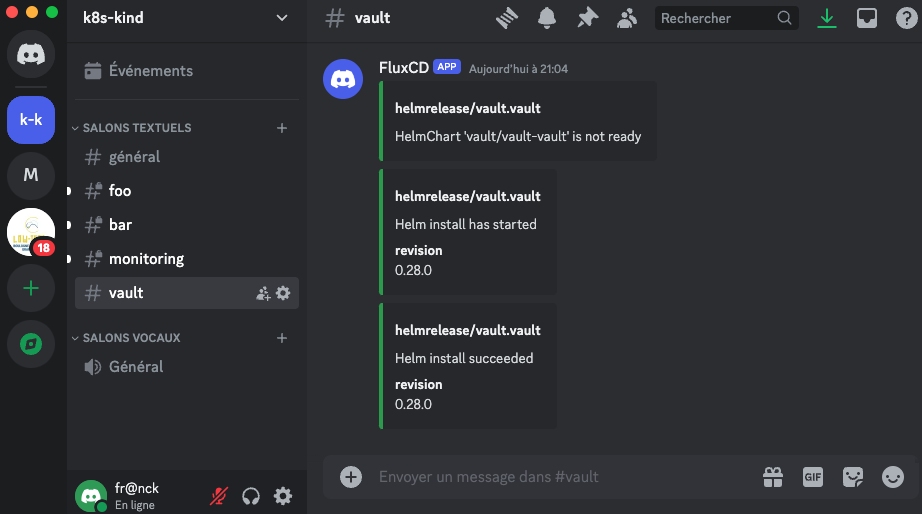
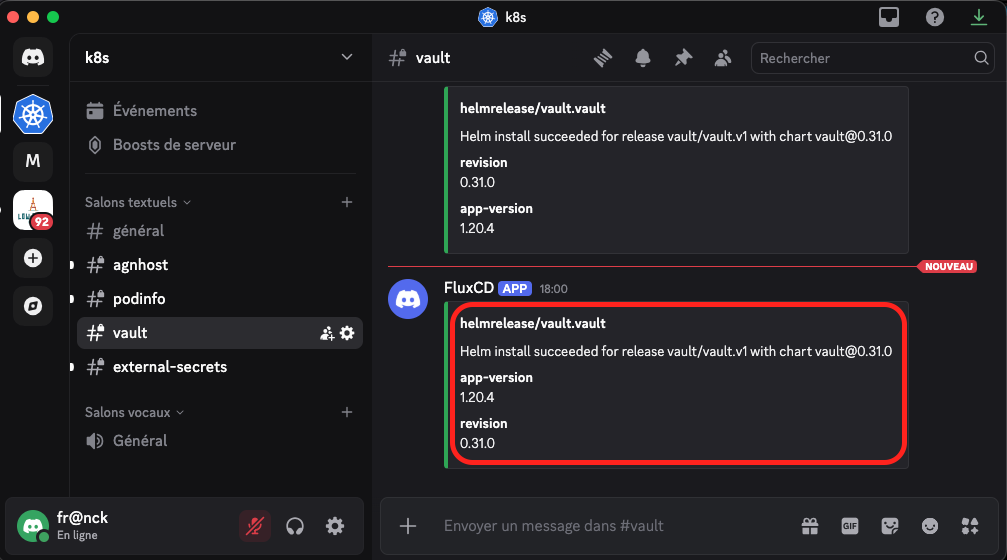
Line 1531

diff --git a/docs/Vault/vault_auto-unseal_external-secrets-operator_fluxcd/vault_auto-unsealed_external-secrets-operator_fluxcd.md b/docs/Vault/vault_auto-unseal_external-secrets-operator_fluxcd/vault_auto-unsealed_external-secrets-operator_fluxcd.md
@@ -764,55 +764,88 @@ La création d'une clé déclenche le téléchargement d'un fichier texte au for
 
 ##### Création de la clé via gcloud (CLI)
 
+!!! Note
+    Nous préciserons que nous souhaitons récupérer le fichier JSON contenant la clé privée de notre *service account* en local dans le fichier ```${HOME}/vault-sa-key```.
+
 === "code"
     ```sh
-    gcloud iam service-accounts keys create ~/k8s-vault.service-account.private-key.json \
+    gcloud iam service-accounts keys create ${HOME}/vault-sa-key \
       --iam-account=k8s-vault@papafrancky.iam.gserviceaccount.com
     ```
 === "output"
     ```sh
-    created key [22a3198bbbd9984c615b3600d0eef0183091c4bb] of type [json] as [/Users/franck/k8s-vault.service-account.private-key.json] for [k8s-vault@papafrancky.iam.gserviceaccount.com]
+    created key [22a3198bbbd9984c615b3600d0eef0183091c4bb] of type [json] as [/Users/franck/vault-sa-key] for [k8s-vault@papafrancky.iam.gserviceaccount.com]
     ```
 
 === "Clé privée au format JSON"
     ```json
-    type	"service_account"
-    project_id	"papafrancky"
-    private_key_id	"22a3198bbbd9984c615b3600d0eef0183091c4bb"
-    private_key	"-----BEGIN PRIVATE KEY-----\nMIIEvgIBADANBgkqhkiG9w0BAQEFAASCBKgwggSkAgEAAoIBAQC5mIGm5BJNvq0s\n7no5mx+hzPIKRyGRAAX8xKuKtabkRCEcVpQVhQqtWeFFNZa8QxAtfLvQbBkbEvLz\nef6FNMGqnQrZkmMzOW1lvls023GzQvTkvv6GOq6rFDI8caieC6aSte5NLlftSFTV\nq1iydQYJuMC6BniKoScD2hXpIfOqdEV2OSjrrL9P1tKCEvf5+A5TnVIUbC3plJrT\nSVcAY3GHZbaMT8M7h6Dfgkw7NMYy25/d84TRJtx/FqsT4OHZFyrmuPz2V5hfqD+p\n5O8+avb19nbsh86k7jGSLfowLdJUOwq8JfxF1AHuHLuJm0i9zBqWa1+bOkezz+Q4\nZgP5wRuxAgMBAAECggEAC4mJdcBzytVxmntwqagU/U/qM+1cDtF7jc0EBOlp6IK7\ntDFFn1jX4xLVSCIerrFUjh9U5Y3yuZYh+DS7N7ih2WNNy1yoQgTt4gdFUDHcDZK5\n+oZM+DcpqITm4o8GNlzvC+u3VqDs4lk+vNGb/+v6ZhxQDsBcOfHupPSnrAhqR0w7\novevzuUAVHlkNU3ZJjUb5FGQS58cbe4aJGP/jYjrp/1S3lwPQ9pKsmTb7m+I8U7O\n71kcaJA51Wg5BqX9p1t1tgYcdK/cdpu1x55CXf9xCf7yF0EGVMWJrN23ysOtKv0V\nT2uCpPk6IVwPgEi/7rizqbfUCng2Upacle5PDsb06QKBgQD9z5krDPOlxr8JzPFg\n0zbBAwayVA9nsCb4nMCG8guWpz09azUWilf0dg1SO1ySKNKXJsax9TRQ8w3wMkpS\n7ANDS4ROWWvcJFXDQEWLkQuywHD8tZw+3pcBUTYzMH/u++fWpq9HEitmV0y18yR1\n0Y6uS0h4Th9/drxVdDcARsnB1wKBgQC7MkrcZ2gWjWIkB5IKhH4PRG6e7EKhdji4\nTQV8YsRdBIrSoTwAhdsvcqi79dL2yFKqEom2eiHmTrN+wPlyD9HbsxhgBBSB45cU\nhYUfy+xVlmr0W6w/WwW5FqdN0VasgkjhG1GhMGYul439BSsHPKHQLcKmz6pA1hcA\nuDA1hhlttwKBgAX000FhYm5nhaAzQQ7mpghNi+CvfFUQmzmGZDZGg+MbNaK1W1+W\nC45fHtzpK7j6YEbP0CXo/TtRGOikJX5gr4rqwMYd7xwRdjnIzlkCJGYjggNMN8h5\n7M1JHJ6C6t2u57fv3Xkrgf0620AB3r8tFc4dUiwQmUiifrT6rzfAcYetAoGBAIAJ\nKQzRKW9rannMN8Y70uDsZGEMpZI8AxWDkMH/5+DbT3w7TYfqBf3RBbnxrEagw3GR\n1mFZ7b/RipGiubqbOWV0fLKHd+NTYC1oGaKi3tW3WRYjcY+v2R08clgWW5sITYKy\nJcYDDZDGlhY+J6z+eoqiEeX4WbGY/Qi/8jFZtCDHAoGBAJpYHxiq2vO9FuyDM7xk\nKtyEbkT8DZLqlkMlpY+8jRRTOANyx7CAbuusMV4G4UUr2nqO3q5JGOF0Fe2LBF7h\nBKAEWKch108X8OpktA4UqqXsDthaHvZ0Ui1qOOMWyYKU+/XIloOOtx7R0QbyoBsV\npAslSleTwRQvg0fs9b95hxt2\n-----END PRIVATE KEY-----\n"
-    client_email	"k8s-vault@papafrancky.iam.gserviceaccount.com"
-    client_id	"114409726477469875395"
-    auth_uri	"https://accounts.google.com/o/oauth2/auth"
-    token_uri	"https://oauth2.googleapis.com/token"
-    auth_provider_x509_cert_url	"https://www.googleapis.com/oauth2/v1/certs"
-    client_x509_cert_url	"https://www.googleapis.com/robot/v1/metadata/x509/k8s-vault%40papafrancky.iam.gserviceaccount.com"
-    universe_domain	"googleapis.com"
+    {
+      "type": "service_account",
+      "project_id": "papafrancky",
+      "private_key_id": "9888481c9848a94a8549c8b58112642fa8032a2f",
+      "private_key": "-----BEGIN PRIVATE KEY-----\nMIIEvAIBADANBgkqhkiG9w0BAQEFAASCBKYwggSiAgEAAoIBAQCfKVHMPAX5sbri\n8lQUMELRGipMxsd    +FwFQQ0uYSYRW9YgK6YgyJojTnnh/XJqPk/JLP/tEP4cg2wFe\nrNw7+PWe3j1t0TZPMHzSUylm6CKHfqdXGiaDRmmDp8pbTtLGCk   +NrqN7IIXZrZq1\nNnEQ4WRQciRZmHba2NL7jM6kPgpkRR2vAr0rnz0LJe1UI0em1EPqAtOTyRIwn3fV\n3Sccbl2WI2G5Dhq1DaLkz9D/  dWfpmGzDPURfGQJ9Igen7Erw0mzcQQ81F2j/+RuH\npmOKUrH8I9thb00BHIa54VwSENzAL/UV1p   +7W22O61uqdpjpDiUm6eaY27DstBP4\nSeVJeOWvAgMBAAECggEAO1VshH413g1XNcaP+Iy7Q/eEoGWUNhm+aB0GP+ncN4zF\n4AeKOePqqzVPB2/   OwMqvD0V1Vs52AhYSzygS3Bql+kkwTlGpdOEHD2NoMlBEmw1o\ntcxuYg7sQ+PXyK08Xw619IQPttV7gJg67eYzRU85FdJPYcU4PcKJ+LPXzxu/  xPv2\nCK0KIeX6taQNPpTY48lqRAs0gl9yHpRwTEGmWkWcic5qH9F6hAnfp4SPbOFAXtTm\n7JTtsE0hd1GSnZFl2aGep6yfpU6MrhXNZLjUBFnB7XZw3ZBHRnsEx2GAkTaRs3   Uj\nXSKt6STH+p1q+u3HaeNwl9PvyykBNb7P4JxGxSij7QKBgQDcsisG0Oym0zI+Wc2T\nG9lElL4cn7Xa62qys9tQggd4i6CMI/  nBlPXqkQ1or2JVTfehB0grRJAVeE2VWseT\nJaum7imkadp259/LvgRqrZDbWMZ9rfbi9fBE0CCvTakLs7Y5ZDGiVqYEOFzrzwh/\ne0/    9xPMOn6nyEFq0PErZWs969QKBgQC4nzftBSWEQe4BZ2GZMB1pqWzMeu+pxtO4\ntstEK4gbihhVdkcLNW7NjqvX1W3+zEFDQTzFmZCdNivyLpaw5gdPI9Y9Kr7ZqaG/   \n4PR8bPowDAXqh28UbEWgvheKUqblj0cL4EW54OPRh6n2Xk5neXAmBId1Ux2iRKT3\n29k/Wuc/kwKBgFnrRdibGzDFb/  0zfazoddeZevQSpnex32E8IqlksUKOMTWoGsSi\nuqd9vibe/oOfJru3SdJHNyVoRMQLnrD3cj6rXtAcSOSViPtsSkRkv1Z/jy/5x1Ol\nvOVsn0SNsciQyjgL   +KUaBL5HcKSrT90REwBkVFuq9gUoYKx6vExe0ZZZAoGARHxT\nq6noE9q9JmoqK0BM+OAvit7jvrAR5Ahy  +LPJRqYAhttcWU0V8EzHdEYpCobMgt1V\nZNulaJwqyyj7H14FQhdCJuiPaYDijqItL2bhnCcpnqlkzEepwIojg11LqgZvTXmB\nhAVnnVdc9hZfsUS8FG5DrYMKkCI0q/   ky6qyW8d8CgYAkH9WQFS7xR2oIzSkCH8NW\nZKlO9ruGUSIUT0pIdh5yD0oGgFN/cR3f2sEgj5wX7zXg3+fJ/f7wBKx438hWw540\nzD58uxl/9brOYx95/   dld58AGiLWvYhJBgVI1QZNPmXZxMHdW86/G+3S/JQC6nprE\nMXVybj1Axo6H+6LsSbb71w==\n-----END PRIVATE KEY-----\n",
+      "client_email": "k8s-vault@papafrancky.iam.gserviceaccount.com",
+      "client_id": "114409726477469875395",
+      "auth_uri": "https://accounts.google.com/o/oauth2/auth",
+      "token_uri": "https://oauth2.googleapis.com/token",
+      "auth_provider_x509_cert_url": "https://www.googleapis.com/oauth2/v1/certs",
+      "client_x509_cert_url": "https://www.googleapis.com/robot/v1/metadata/x509/k8s-vault%40papafrancky.iam.gserviceaccount.com",
+      "universe_domain": "googleapis.com"
+    }
     ```
 
 
 
 Nous allons tout de suite intégrer cette clé sous la forme de _*secret Kubernetes*_ dans le namespace dédié à Vault :
 
+
+```sh
+kubectl -n vault create secret generic vault-sa-key --from-file=${HOME}/vault-sa-key
+```
+
+Vérifions notre objet nouvellement créé :
+
 === "code"
     ```sh
-    kubectl -n vault create secret generic k8s-vault-gcp-service-account-key --from-file=${HOME}/k8s-vault.service-account.private-key.json
-    kubectl -n vault get secret k8s-vault-gcp-service-account-key -o jsonpath='{.data.k8s-vault\.service-account\.private-key\.json}' | base64 -D
+    kubectl -n vault get secret vault-sa-key -o yaml
     ```
 
 === "output"
+    ```yaml
+    apiVersion: v1
+    data:
+      vault-sa-key:     ewogICJ0eXBlIjogInNlcnZpY2VfYWNjb3VudCIsCiAgInByb2plY3RfaWQiOiAicGFwYWZyYW5ja3kiLAogICJwcml2YXRlX2tleV9pZCI6ICI5ODg4NDgxYzk4NDhhOTRhODU0OW    M4YjU4MTEyNjQyZmE4MDMyYTJmIiwKICAicHJpdmF0ZV9rZXkiOiAiLS0tLS1CRUdJTiBQUklWQVRFIEtFWS0tLS0tXG5NSUlFdkFJQkFEQU5CZ2txaGtpRzl3MEJBUUVGQUFTQ0JL    WXdnZ1NpQWdFQUFvSUJBUUNmS1ZITVBBWDVzYnJpXG44bFFVTUVMUkdpcE14c2QrRndGUVEwdVlTWVJXOVlnSzZZZ3lKb2pUbm5oL1hKcVBrL0pMUC90RVA0Y2cyd0ZlXG5yTnc3K1    BXZTNqMXQwVFpQTUh6U1V5bG02Q0tIZnFkWEdpYURSbW1EcDhwYlR0TEdDaytOcnFON0lJWFpyWnExXG5ObkVRNFdSUWNpUlptSGJhMk5MN2pNNmtQZ3BrUlIydkFyMHJuejBMSmUx    VUkwZW0xRVBxQXRPVHlSSXduM2ZWXG4zU2NjYmwyV0kyRzVEaHExRGFMa3o5RC9kV2ZwbUd6RFBVUmZHUUo5SWdlbjdFcncwbXpjUVE4MUYyai8rUnVIXG5wbU9LVXJIOEk5dGhiMD    BCSElhNTRWd1NFTnpBTC9VVjFwKzdXMjJPNjF1cWRwanBEaVVtNmVhWTI3RHN0QlA0XG5TZVZKZU9XdkFnTUJBQUVDZ2dFQU8xVnNoSDQxM2cxWE5jYVArSXk3US9lRW9HV1VOaG0r    YUIwR1ArbmNONHpGXG40QWVLT2VQcXF6VlBCMi9Pd01xdkQwVjFWczUyQWhZU3p5Z1MzQnFsK2trd1RsR3BkT0VIRDJOb01sQkVtdzFvXG50Y3h1WWc3c1ErUFh5SzA4WHc2MTlJUV    B0dFY3Z0pnNjdlWXpSVTg1RmRKUFljVTRQY0tKK0xQWHp4dS94UHYyXG5DSzBLSWVYNnRhUU5QcFRZNDhscVJBczBnbDl5SHBSd1RFR21Xa1djaWM1cUg5RjZoQW5mcDRTUGJPRkFY    dFRtXG43SlR0c0UwaGQxR1NuWkZsMmFHZXA2eWZwVTZNcmhYTlpMalVCRm5CN1hadzNaQkhSbnNFeDJHQWtUYVJzM1VqXG5YU0t0NlNUSCtwMXErdTNIYWVOd2w5UHZ5eWtCTmI3UD    RKeEd4U2lqN1FLQmdRRGNzaXNHME95bTB6SStXYzJUXG5HOWxFbEw0Y243WGE2MnF5czl0UWdnZDRpNkNNSS9uQmxQWHFrUTFvcjJKVlRmZWhCMGdyUkpBVmVFMlZXc2VUXG5KYXVt    N2lta2FkcDI1OS9MdmdScXJaRGJXTVo5cmZiaTlmQkUwQ0N2VGFrTHM3WTVaREdpVnFZRU9GenJ6d2gvXG5lMC85eFBNT242bnlFRnEwUEVyWldzOTY5UUtCZ1FDNG56ZnRCU1dFUW    U0QloyR1pNQjFwcVd6TWV1K3B4dE80XG50c3RFSzRnYmloaFZka2NMTlc3TmpxdlgxVzMrekVGRFFUekZtWkNkTml2eUxwYXc1Z2RQSTlZOUtyN1pxYUcvXG40UFI4YlBvd0RBWHFo    MjhVYkVXZ3ZoZUtVcWJsajBjTDRFVzU0T1BSaDZuMlhrNW5lWEFtQklkMVV4MmlSS1QzXG4yOWsvV3VjL2t3S0JnRm5yUmRpYkd6REZiLzB6ZmF6b2RkZVpldlFTcG5leDMyRThJcW    xrc1VLT01UV29Hc1NpXG51cWQ5dmliZS9vT2ZKcnUzU2RKSE55Vm9STVFMbnJEM2NqNnJYdEFjU09TVmlQdHNTa1JrdjFaL2p5LzV4MU9sXG52T1ZzbjBTTnNjaVF5amdMK0tVYUJM    NUhjS1NyVDkwUkV3QmtWRnVxOWdVb1lLeDZ2RXhlMFpaWkFvR0FSSHhUXG5xNm5vRTlxOUptb3FLMEJNK09Bdml0N2p2ckFSNUFoeStMUEpScVlBaHR0Y1dVMFY4RXpIZEVZcENvYk    1ndDFWXG5aTnVsYUp3cXl5ajdIMTRGUWhkQ0p1aVBhWURpanFJdEwyYmhuQ2NwbnFsa3pFZXB3SW9qZzExTHFnWnZUWG1CXG5oQVZublZkYzloWmZzVVM4Rkc1RHJZTUtrQ0kwcS9r    eTZxeVc4ZDhDZ1lBa0g5V1FGUzd4UjJvSXpTa0NIOE5XXG5aS2xPOXJ1R1VTSVVUMHBJZGg1eUQwb0dnRk4vY1IzZjJzRWdqNXdYN3pYZzMrZkovZjd3Qkt4NDM4aFd3NTQwXG56RD    U4dXhsLzlick9ZeDk1L2RsZDU4QUdpTFd2WWhKQmdWSTFRWk5QbVhaeE1IZFc4Ni9HKzNTL0pRQzZucHJFXG5NWFZ5YmoxQXhvNkgrNkxzU2JiNzF3PT1cbi0tLS0tRU5EIFBSSVZB    VEUgS0VZLS0tLS1cbiIsCiAgImNsaWVudF9lbWFpbCI6ICJrOHMtdmF1bHRAcGFwYWZyYW5ja3kuaWFtLmdzZXJ2aWNlYWNjb3VudC5jb20iLAogICJjbGllbnRfaWQiOiAiMTE0ND    A5NzI2NDc3NDY5ODc1Mzk1IiwKICAiYXV0aF91cmkiOiAiaHR0cHM6Ly9hY2NvdW50cy5nb29nbGUuY29tL28vb2F1dGgyL2F1dGgiLAogICJ0b2tlbl91cmkiOiAiaHR0cHM6Ly9v    YXV0aDIuZ29vZ2xlYXBpcy5jb20vdG9rZW4iLAogICJhdXRoX3Byb3ZpZGVyX3g1MDlfY2VydF91cmwiOiAiaHR0cHM6Ly93d3cuZ29vZ2xlYXBpcy5jb20vb2F1dGgyL3YxL2Nlcn    RzIiwKICAiY2xpZW50X3g1MDlfY2VydF91cmwiOiAiaHR0cHM6Ly93d3cuZ29vZ2xlYXBpcy5jb20vcm9ib3QvdjEvbWV0YWRhdGEveDUwOS9rOHMtdmF1bHQlNDBwYXBhZnJhbmNr    eS5pYW0uZ3NlcnZpY2VhY2NvdW50LmNvbSIsCiAgInVuaXZlcnNlX2RvbWFpbiI6ICJnb29nbGVhcGlzLmNvbSIKfQo=
+    kind: Secret
+    metadata:
+      creationTimestamp: "2025-11-10T15:10:23Z"
+      name: vault-sa-key
+      namespace: vault
+      resourceVersion: "1050214"
+      uid: eef1fcc1-555e-4e88-90de-36195257616f
+    type: Opaque
+    ```
+
+S'agissant d'un objet de type 'secret', le contenu est en base 64. Déchiffrons-le pour nous assurer que son contenu correspond bien au fichier JSON téléchargé depuis GCP et contenant la clé privée de notre 'service account':
+
+=== "code"
     ```sh
+    kubectl -n vault get secret vault-sa-key -o yaml | yq -r .data.vault-sa-key | base64 -d
+    ```
+
+=== "output"
+    ```json
     {
-      type	"service_account"
-      project_id	"papafrancky"
-      private_key_id	"22a3198bbbd9984c615b3600d0eef0183091c4bb"
-      private_key	"-----BEGIN PRIVATE KEY-----\nMIIEvgIBADANBgkqhkiG9w0BAQEFAASCBKgwggSkAgEAAoIBAQC5mIGm5BJNvq0s\n7no5mx+hzPIKRyGRAAX8xKuKtabkRCEcVpQVhQqtWeFFNZa8QxAtfLvQbBkbEvLz\nef6FNMGqnQrZkmMzOW1lvls023GzQvTkvv6GOq6rFDI8caieC6aSte5NLlftSFTV\nq1iydQYJuMC6BniKoScD2hXpIfOqdEV2OSjrrL9P1tKCEvf5+A5TnVIUbC3plJrT\nSVcAY3GHZbaMT8M7h6Dfgkw7NMYy25/d84TRJtx/FqsT4OHZFyrmuPz2V5hfqD+p\n5O8+avb19nbsh86k7jGSLfowLdJUOwq8JfxF1AHuHLuJm0i9zBqWa1+bOkezz+Q4\nZgP5wRuxAgMBAAECggEAC4mJdcBzytVxmntwqagU/U/qM+1cDtF7jc0EBOlp6IK7\ntDFFn1jX4xLVSCIerrFUjh9U5Y3yuZYh+DS7N7ih2WNNy1yoQgTt4gdFUDHcDZK5\n+oZM+DcpqITm4o8GNlzvC+u3VqDs4lk+vNGb/+v6ZhxQDsBcOfHupPSnrAhqR0w7\novevzuUAVHlkNU3ZJjUb5FGQS58cbe4aJGP/jYjrp/1S3lwPQ9pKsmTb7m+I8U7O\n71kcaJA51Wg5BqX9p1t1tgYcdK/cdpu1x55CXf9xCf7yF0EGVMWJrN23ysOtKv0V\nT2uCpPk6IVwPgEi/7rizqbfUCng2Upacle5PDsb06QKBgQD9z5krDPOlxr8JzPFg\n0zbBAwayVA9nsCb4nMCG8guWpz09azUWilf0dg1SO1ySKNKXJsax9TRQ8w3wMkpS\n7ANDS4ROWWvcJFXDQEWLkQuywHD8tZw+3pcBUTYzMH/u++fWpq9HEitmV0y18yR1\n0Y6uS0h4Th9/drxVdDcARsnB1wKBgQC7MkrcZ2gWjWIkB5IKhH4PRG6e7EKhdji4\nTQV8YsRdBIrSoTwAhdsvcqi79dL2yFKqEom2eiHmTrN+wPlyD9HbsxhgBBSB45cU\nhYUfy+xVlmr0W6w/WwW5FqdN0VasgkjhG1GhMGYul439BSsHPKHQLcKmz6pA1hcA\nuDA1hhlttwKBgAX000FhYm5nhaAzQQ7mpghNi+CvfFUQmzmGZDZGg+MbNaK1W1+W\nC45fHtzpK7j6YEbP0CXo/TtRGOikJX5gr4rqwMYd7xwRdjnIzlkCJGYjggNMN8h5\n7M1JHJ6C6t2u57fv3Xkrgf0620AB3r8tFc4dUiwQmUiifrT6rzfAcYetAoGBAIAJ\nKQzRKW9rannMN8Y70uDsZGEMpZI8AxWDkMH/5+DbT3w7TYfqBf3RBbnxrEagw3GR\n1mFZ7b/RipGiubqbOWV0fLKHd+NTYC1oGaKi3tW3WRYjcY+v2R08clgWW5sITYKy\nJcYDDZDGlhY+J6z+eoqiEeX4WbGY/Qi/8jFZtCDHAoGBAJpYHxiq2vO9FuyDM7xk\nKtyEbkT8DZLqlkMlpY+8jRRTOANyx7CAbuusMV4G4UUr2nqO3q5JGOF0Fe2LBF7h\nBKAEWKch108X8OpktA4UqqXsDthaHvZ0Ui1qOOMWyYKU+/XIloOOtx7R0QbyoBsV\npAslSleTwRQvg0fs9b95hxt2\n-----END PRIVATE KEY-----\n"
-      client_email	"k8s-vault@papafrancky.iam.gserviceaccount.com"
-      client_id	"114409726477469875395"
-      auth_uri	"https://accounts.google.com/o/oauth2/auth"
-      token_uri	"https://oauth2.googleapis.com/token"
-      auth_provider_x509_cert_url	"https://www.googleapis.com/oauth2/v1/certs"
-      client_x509_cert_url	"https://www.googleapis.com/robot/v1/metadata/x509/k8s-vault%40papafrancky.iam.gserviceaccount.com"
-      universe_domain	"googleapis.com"
+      "type": "service_account",
+      "project_id": "papafrancky",
+      "private_key_id": "9888481c9848a94a8549c8b58112642fa8032a2f",
+      "private_key": "-----BEGIN PRIVATE KEY-----\nMIIEvAIBADANBgkqhkiG9w0BAQEFAASCBKYwggSiAgEAAoIBAQCfKVHMPAX5sbri\n8lQUMELRGipMxsd    +FwFQQ0uYSYRW9YgK6YgyJojTnnh/XJqPk/JLP/tEP4cg2wFe\nrNw7+PWe3j1t0TZPMHzSUylm6CKHfqdXGiaDRmmDp8pbTtLGCk   +NrqN7IIXZrZq1\nNnEQ4WRQciRZmHba2NL7jM6kPgpkRR2vAr0rnz0LJe1UI0em1EPqAtOTyRIwn3fV\n3Sccbl2WI2G5Dhq1DaLkz9D/  dWfpmGzDPURfGQJ9Igen7Erw0mzcQQ81F2j/+RuH\npmOKUrH8I9thb00BHIa54VwSENzAL/UV1p   +7W22O61uqdpjpDiUm6eaY27DstBP4\nSeVJeOWvAgMBAAECggEAO1VshH413g1XNcaP+Iy7Q/eEoGWUNhm+aB0GP+ncN4zF\n4AeKOePqqzVPB2/OwMqvD0V1Vs52AhYSzygS3Bql  +kkwTlGpdOEHD2NoMlBEmw1o\ntcxuYg7sQ+PXyK08Xw619IQPttV7gJg67eYzRU85FdJPYcU4PcKJ+LPXzxu/   xPv2\nCK0KIeX6taQNPpTY48lqRAs0gl9yHpRwTEGmWkWcic5qH9F6hAnfp4SPbOFAXtTm\n7JTtsE0hd1GSnZFl2aGep6yfpU6MrhXNZLjUBFnB7XZw3ZBHRnsEx2GAkTaRs3Uj\n  XSKt6STH+p1q+u3HaeNwl9PvyykBNb7P4JxGxSij7QKBgQDcsisG0Oym0zI+Wc2T\nG9lElL4cn7Xa62qys9tQggd4i6CMI/   nBlPXqkQ1or2JVTfehB0grRJAVeE2VWseT\nJaum7imkadp259/LvgRqrZDbWMZ9rfbi9fBE0CCvTakLs7Y5ZDGiVqYEOFzrzwh/\ne0/   9xPMOn6nyEFq0PErZWs969QKBgQC4nzftBSWEQe4BZ2GZMB1pqWzMeu+pxtO4\ntstEK4gbihhVdkcLNW7NjqvX1W3+zEFDQTzFmZCdNivyLpaw5gdPI9Y9Kr7ZqaG/  \n4PR8bPowDAXqh28UbEWgvheKUqblj0cL4EW54OPRh6n2Xk5neXAmBId1Ux2iRKT3\n29k/Wuc/kwKBgFnrRdibGzDFb/   0zfazoddeZevQSpnex32E8IqlksUKOMTWoGsSi\nuqd9vibe/oOfJru3SdJHNyVoRMQLnrD3cj6rXtAcSOSViPtsSkRkv1Z/jy/5x1Ol\nvOVsn0SNsciQyjgL  +KUaBL5HcKSrT90REwBkVFuq9gUoYKx6vExe0ZZZAoGARHxT\nq6noE9q9JmoqK0BM+OAvit7jvrAR5Ahy   +LPJRqYAhttcWU0V8EzHdEYpCobMgt1V\nZNulaJwqyyj7H14FQhdCJuiPaYDijqItL2bhnCcpnqlkzEepwIojg11LqgZvTXmB\nhAVnnVdc9hZfsUS8FG5DrYMKkCI0q/  ky6qyW8d8CgYAkH9WQFS7xR2oIzSkCH8NW\nZKlO9ruGUSIUT0pIdh5yD0oGgFN/cR3f2sEgj5wX7zXg3+fJ/f7wBKx438hWw540\nzD58uxl/9brOYx95/    dld58AGiLWvYhJBgVI1QZNPmXZxMHdW86/G+3S/JQC6nprE\nMXVybj1Axo6H+6LsSbb71w==\n-----END PRIVATE KEY-----\n",
+      "client_email": "k8s-vault@papafrancky.iam.gserviceaccount.com",
+      "client_id": "114409726477469875395",
+      "auth_uri": "https://accounts.google.com/o/oauth2/auth",
+      "token_uri": "https://oauth2.googleapis.com/token",
+      "auth_provider_x509_cert_url": "https://www.googleapis.com/oauth2/v1/certs",
+      "client_x509_cert_url": "https://www.googleapis.com/robot/v1/metadata/x509/k8s-vault%40papafrancky.iam.gserviceaccount.com",
+      "universe_domain": "googleapis.com"
     }
     ```
 
@@ -867,7 +900,7 @@ Informations concernant la clé  :
       --location europe-west9
 
     # Création de la clé :
-    gcloud kms keys create k8s-vault2 \
+    gcloud kms keys create k8s-vault \
       --keyring k8s-vault \
       --location europe-west9 \
       --purpose encryption \
@@ -1015,17 +1048,16 @@ server:
   extraEnvironmentVars:
     GOOGLE_REGION: europe-west9
     GOOGLE_PROJECT: papafrancky
-    GOOGLE_APPLICATION_CREDENTIALS: /vault/userconfig/k8s-vault-gcp-service-account-key/k8s-vault.service-account.private-key.json
+    GOOGLE_APPLICATION_CREDENTIALS: /vault/userconfig/vault-sa-key/vault-sa-key
   extraVolumes:
     - type: secret
-      name: k8s-vault-gcp-service-account-key
+      name: vault-sa-key
       path: /vault/userconfig
-  dataStorage:
-    size: 1Gi
   standalone:
     enabled: true
     config: |
       ui = true
+
       listener "tcp" {
         tls_disable = 1
         address = "[::]:8200"
@@ -1038,11 +1070,15 @@ server:
       storage "file" {
         path = "/vault/data"
       }
+
+      # Example configuration for using auto-unseal, using Google Cloud KMS. The
+      # GKMS keys must already exist, and the cluster must have a service account
+      # that is authorized to access GCP KMS.
       seal "gcpckms" {
-         project     = "papafrancky"
-         region      = "euope-west9"
-         key_ring    = "k8s-vault"
-         crypto_key  = "k8s-vault"
+        project     = "papafrancky"
+        region      = "euope-west9"
+        key_ring    = "k8s-vault"
+        crypto_key  = "k8s-vault"
       }
   serviceAccount:
     create: true
@@ -1055,7 +1091,7 @@ EOF
 kubectl -n vault create configmap vault-values \
   --from-file=./vault/values.yaml \
   --dry-run=client \
-  -o yaml > ./vault/vault.values.yaml
+  -o yaml > ./vault/vault-values.configmap.yaml
 
 # Suppression du fichier values.yaml :
 /bin/rm ./vault/values.yaml
@@ -1077,8 +1113,7 @@ La '*deploy key*' va permettre à FluxCD de s'authentifier auprès du dépôt Gi
 
     flux create secret git k8s-kind-apps-gitrepository-deploykeys \
       --url=ssh://github.com/${GITHUB_USERNAME}/k8s-kind-apps \
-      --namespace=vault \
-      --export > 
+      --namespace=vault
     
     kubectl -n vault get secret k8s-kind-apps-gitrepository-deploykeys -o yaml
     ```
@@ -1178,7 +1213,8 @@ flux reconcile kustomization flux-system --with-source
 
 Nous devons dire à Flux qu'il doit gérer le sous-répertoire '*vault*' dans le dépôt Git dédié à nos applications :
 
-```sh
+=== "code"
+    ```sh
     export LOCAL_GITHUB_REPOS="${HOME}/code/github"
     cd ${LOCAL_GITHUB_REPOS}/k8s-kind-fluxcd
 
@@ -1189,7 +1225,25 @@ Nous devons dire à Flux qu'il doit gérer le sous-répertoire '*vault*' dans le
       --prune=true \
       --namespace=vault \
       --export  > apps/vault/vault.kustomization.yaml
-```
+    ```
+
+=== "'vault' kustomization"
+    ```yaml
+    ---
+    apiVersion: kustomize.toolkit.fluxcd.io/v1
+    kind: Kustomization
+    metadata:
+      name: vault
+      namespace: vault
+    spec:
+      interval: 1m0s
+      path: ./vault
+      prune: true
+      sourceRef:
+        kind: GitRepository
+        name: k8s-kind-apps
+        namespace: vault
+    ```
 
 Poussons nos modifications sur GitHub pour une prise en compte par FluxCD :
 
@@ -1278,8 +1332,18 @@ Discord nous annonce que la kustomization 'vault' est désormais bien fonctionne
 
 
 
+Assurons-nous que la Helm release est bien déployée dans le namespace '*vault*' :
 
-XXXXX
+=== "code"
+    ```sh
+    helm -n vault list
+    ```
+
+=== "output"
+    ```sh
+    NAME 	NAMESPACE	REVISION	UPDATED                             	STATUS  	CHART       	APP VERSION
+    vault	vault    	1       	2025-11-10 15:48:01.835257 +0000 UTC	deployed	vault-0.31.0	1.20.4
+    ```
 
 Regardons l'état de nos objets dans le namespace 'vault' :
 
@@ -1290,8 +1354,8 @@ Regardons l'état de nos objets dans le namespace 'vault' :
 
 === "output"
     ```sh
-    NAME          READY   STATUS             RESTARTS        AGE
-    pod/vault-0   0/1     CrashLoopBackOff   6 (2m10s ago)   8m5s
+    NAME          READY   STATUS    RESTARTS        AGE
+    pod/vault-0   0/1     Running   6 (2m10s ago)   8m5s
 
     NAME                     TYPE        CLUSTER-IP      EXTERNAL-IP   PORT(S)             AGE
     service/vault            ClusterIP   10.43.76.26     <none>        8200/TCP,8201/TCP   8m5s
@@ -1321,10 +1385,10 @@ Nous voyons que le pod 'vault-0' à un status 'Running' mais qu'il n'est pas 're
     Threshold                0
     Unseal Progress          0/0
     Unseal Nonce             n/a
-    Version                  1.16.1
-    Build Date               2024-04-03T12:35:53Z
-    Storage Type             raft
-    HA Enabled               true
+    Version                  1.20.4
+    Build Date               2025-09-23T13:22:38Z
+    Storage Type             file
+    HA Enabled               false
     command terminated with exit code 2
     ```
 
@@ -1343,16 +1407,16 @@ L'initialisation de Vault passe par une commande à passer directement sur les p
 
 === "output"
     ```sh
-    Recovery Key 1: xhiaiaNYaJG6IjCSgvtlDOktdl1D8pEQiuuflLF4TFn6
-    Recovery Key 2: i6Z/xCFSOottTsabjYemf182h80c4gz8S8pP0Uv5kmws
-    Recovery Key 3: iCYiSqb8MwMIb34GGyy2+pUMfL7774gAXb6BVV24v+EZ
-    Recovery Key 4: cMFdU8okh5OZ2VSdhpRk7965EE+hO+N+M9OlHEtZBfdl
-    Recovery Key 5: QmMRWjhJrzEJ+Oc0UnWhN9hlJff4seCmBkr7Ne8uP3ay
-    
-    Initial Root Token: hvs.VPcxxUbQjWt66U3jRzMjfIaI
-    
+    Recovery Key 1: eE4Os3Z4TSnVLjsROqGIyFdEiDVBTGvolywiY5PJ2tLh
+    Recovery Key 2: SBLCPjboyMEdzhpPLwnC4g1FnMH5xG1Z8jHv/X/5fDIB
+    Recovery Key 3: toG6YbkGeI6yRYMeeKVsKh+WocVFiqE9ZzFxRFpdw8QH
+    Recovery Key 4: YVfC0LIPdZZ8OqC6vc3PlYsRjShbJRYLRaOq8bhBI823
+    Recovery Key 5: GD2tpYHrtzBtPVzBHSo9ZeK8RM5/H6gxskUOoHBzSvAn
+
+    Initial Root Token: hvs.CQwblgr767wFfJLVU5DgjIi8
+
     Success! Vault is initialized
-    
+
     Recovery key initialized with 5 key shares and a key threshold of 3. Please
     securely distribute the key shares printed above.
     ```
@@ -1377,20 +1441,15 @@ Vérifions que Vault est bien opérationnel :
     Sealed                   false
     Total Recovery Shares    5
     Threshold                3
-    Version                  1.16.1
-    Build Date               2024-04-03T12:35:53Z
-    Storage Type             raft
-    Cluster Name             vault-cluster-877de470
-    Cluster ID               8a3d7616-1771-aa7d-bf00-e587e88f9f4d
-    HA Enabled               true
-    HA Cluster               https://vault-0.vault-internal:8201
-    HA Mode                  active
-    Active Since             2024-06-01T16:21:00.144765355Z
-    Raft Committed Index     67
-    Raft Applied Index       67
+    Version                  1.20.4
+    Build Date               2025-09-23T13:22:38Z
+    Storage Type             file
+    Cluster Name             vault-cluster-632ed50e
+    Cluster ID               7b77d1d9-cb52-e83b-486f-5ce7811c6929
+    HA Enabled               false
     ```
 
-Vault est bien initialisé. Assurons-nous malgré tout que le pod est désormais bien 'ready' :
+Vault est bien initialisé (Sealed = false). Assurons-nous malgré tout que le pod est désormais bien 'ready' :
 
 === " code"
     ```sh
@@ -1400,7 +1459,7 @@ Vault est bien initialisé. Assurons-nous malgré tout que le pod est désormais
 === "output"
     ```sh
     NAME      READY   STATUS    RESTARTS   AGE
-    vault-0   1/1     Running   0          25m
+    vault-0   1/1     Running   0          65m
     ```
 
 Tout est comme attendu ! :fontawesome-regular-face-laugh-wink:
@@ -1411,11 +1470,18 @@ Tout est comme attendu ! :fontawesome-regular-face-laugh-wink:
 
 Vault est installé en *'statefulset'*, sa configuration est pérenne, aussi allons-nous le désinstaller et attendre que FluxCD le réinstalle pour nous assurer que Vault sera réinstallé dans un état initialisé et *'unsealed'*.
 
-helm -n vault list
+=== "code"
+    ```sh
+    helm -n vault list
+    ```
 
-NAME 	NAMESPACE	REVISION	UPDATED                                	STATUS  	CHART       	APP VERSION
-vault	vault    	1       	2024-06-01 16:13:04.681229835 +0000 UTC	deployed	vault-0.28.0	1.16.1
+=== "output"
+    ```sh
+    NAME 	NAMESPACE	REVISION	UPDATED                                	STATUS  	CHART       	APP VERSION
+    vault	vault    	1       	2024-06-01 16:13:04.681229835 +0000 UTC	deployed	vault-0.28.0	1.16.1
+    ```
 
+Désinstallons Vault tout en sachant que FluxCD le réinstallera ensuite :
 
 === "code"
     ```sh
@@ -1449,23 +1515,20 @@ Regardons sur le pod nouvellement re-déployé l'état de Vault :
     Sealed                   false
     Total Recovery Shares    5
     Threshold                3
-    Version                  1.16.1
-    Build Date               2024-04-03T12:35:53Z
-    Storage Type             raft
-    Cluster Name             vault-cluster-877de470
-    Cluster ID               8a3d7616-1771-aa7d-bf00-e587e88f9f4d
-    HA Enabled               true
-    HA Cluster               https://vault-0.vault-internal:8201
-    HA Mode                  active
-    Active Since             2024-06-01T16:45:14.602109688Z
-    Raft Committed Index     109
-    Raft Applied Index       109
+    Version                  1.20.4
+    Build Date               2025-09-23T13:22:38Z
+    Storage Type             file
+    Cluster Name             vault-cluster-632ed50e
+    Cluster ID               7b77d1d9-cb52-e83b-486f-5ce7811c6929
+    HA Enabled               false
     ```
+
+Vault est bien '*unsealed*'. Parce qu'il s'agit d'un '*statefulset*', les données sont persistantes sur le cluster et Vault se souvient malgré avoir été désinstallé qu'il avait été initialisé précédemment, raison pour laquelle nous n'avons pas eu à le faire encore une fois.
 
 !!! Success
     Nous venons de valider le bon fonctionnement de l'**'auto-unsealing'** de Vault.
 
-
+XXXXX
 
 ## External Secrets Operator
 
